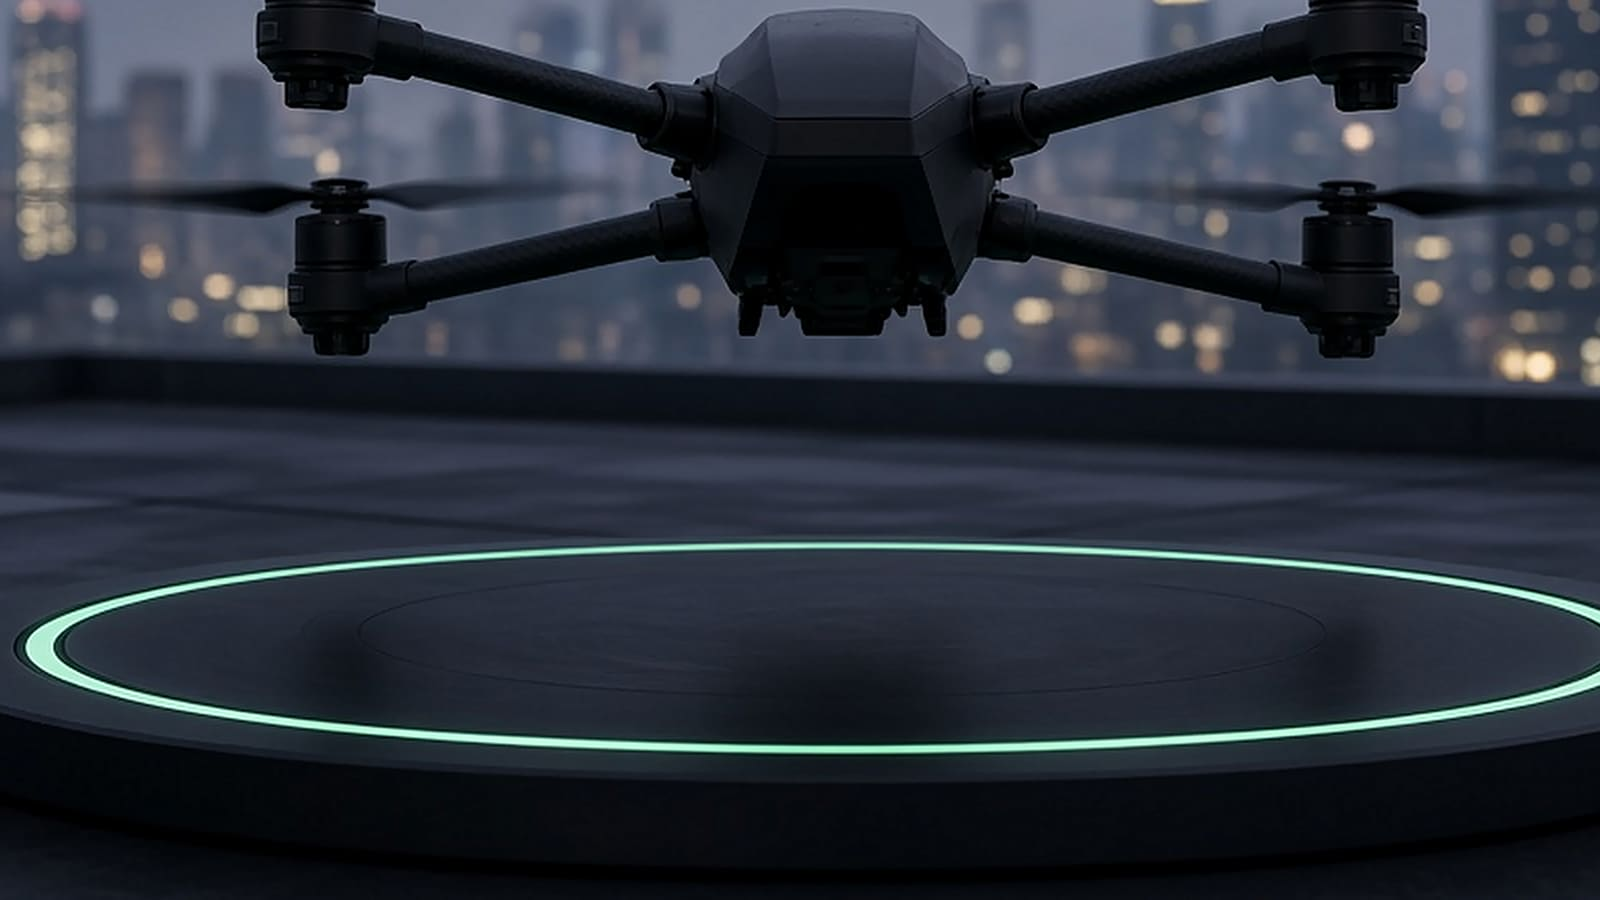
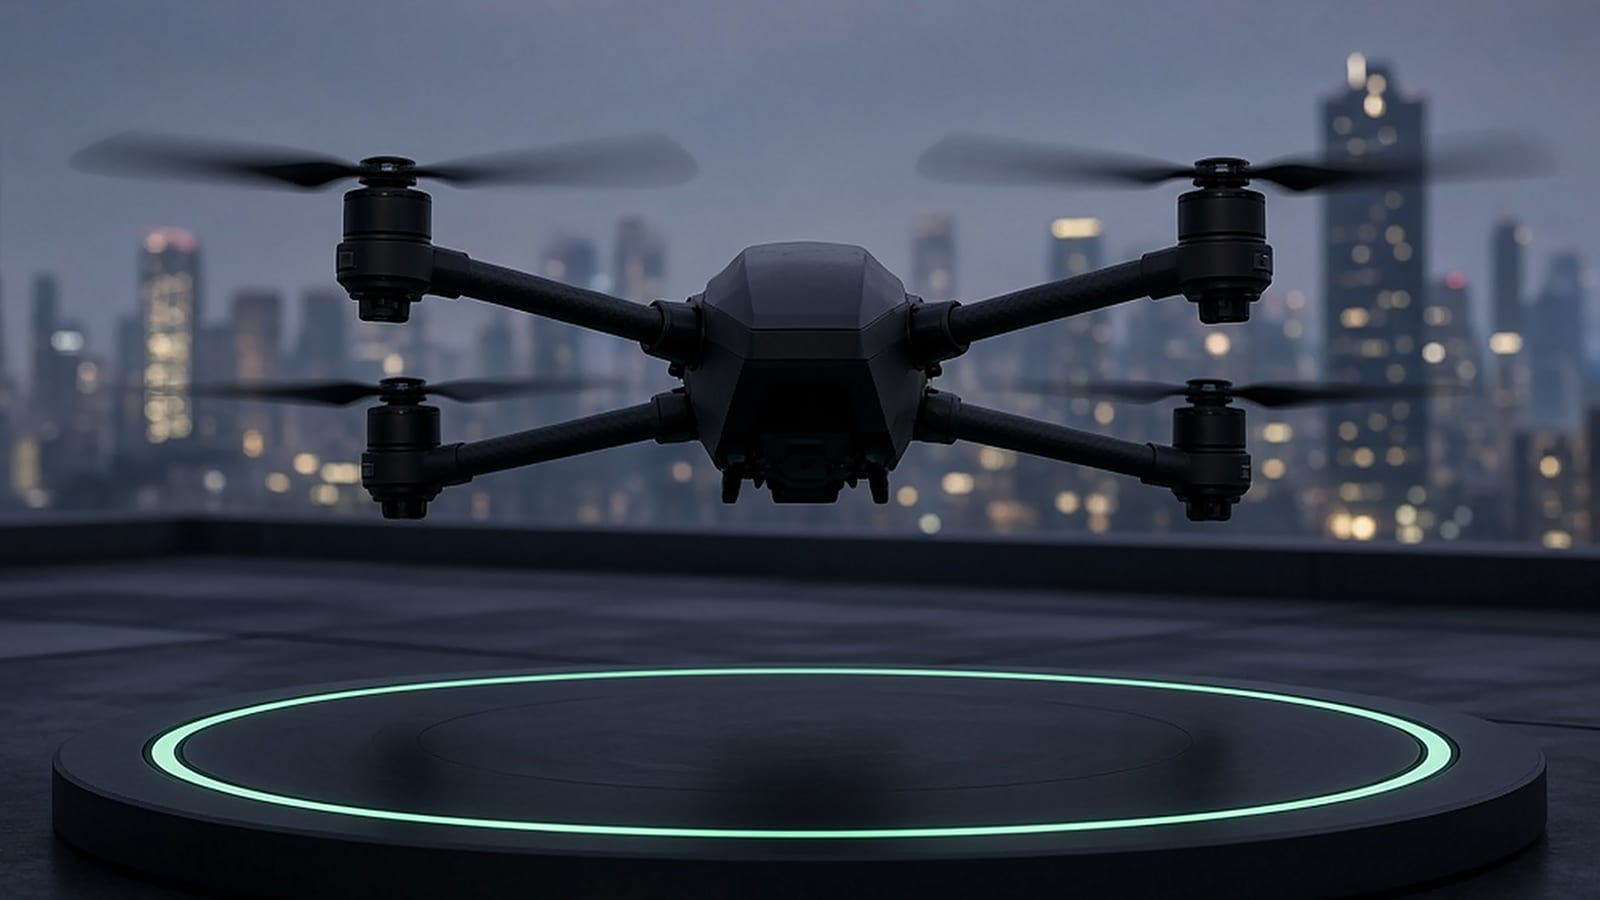
Zoom the drone still out so the pad is fully in frame.
Recrop the machines card and the MFAM posters from the 4K source, with the drone and charging pad centered and night sky filling the tall card above them.

diff --git a/app/globals.css b/app/globals.css
@@ -3059,7 +3059,7 @@ img {
 .hpMfamFilm { margin-top: 36px; width: 100%; max-width: none; }
 .hpMfam .hpDisclaimer { color: rgba(17, 24, 39, 0.55); }
 .hpMfam .hpStage {
-  background: #0c1612 url("/media/mpe-mfam-film-loop-poster.jpg") center 42% / cover no-repeat;
+  background: #0c1612 url("/media/mpe-mfam-film-loop-poster.jpg") center / cover no-repeat;
   box-shadow: 0 18px 50px rgba(0, 0, 0, 0.28);
   border-color: rgba(255, 255, 255, 0.12);
 }
@@ -3671,7 +3671,7 @@ html.js .hpShot img.isIn {
   opacity: 1;
   transform: scale(1);
 }
-.hpShotDrone { object-position: center 38%; }
+.hpShotDrone { object-fit: cover; object-position: center bottom; }
 .hpShot:hover img { transform: scale(1.1); }
 .hpShotShade {
   position: absolute;
